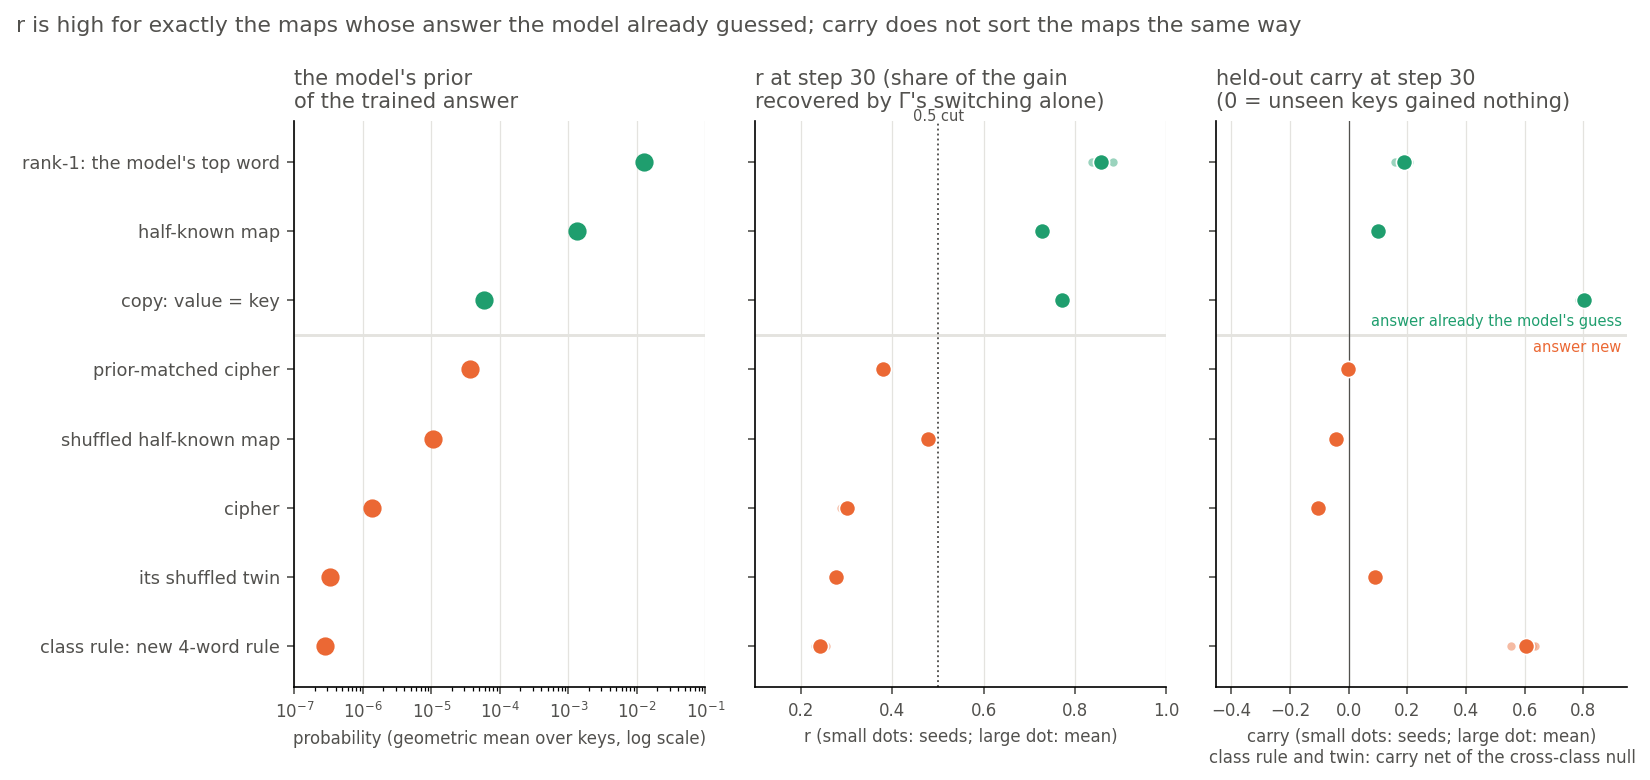
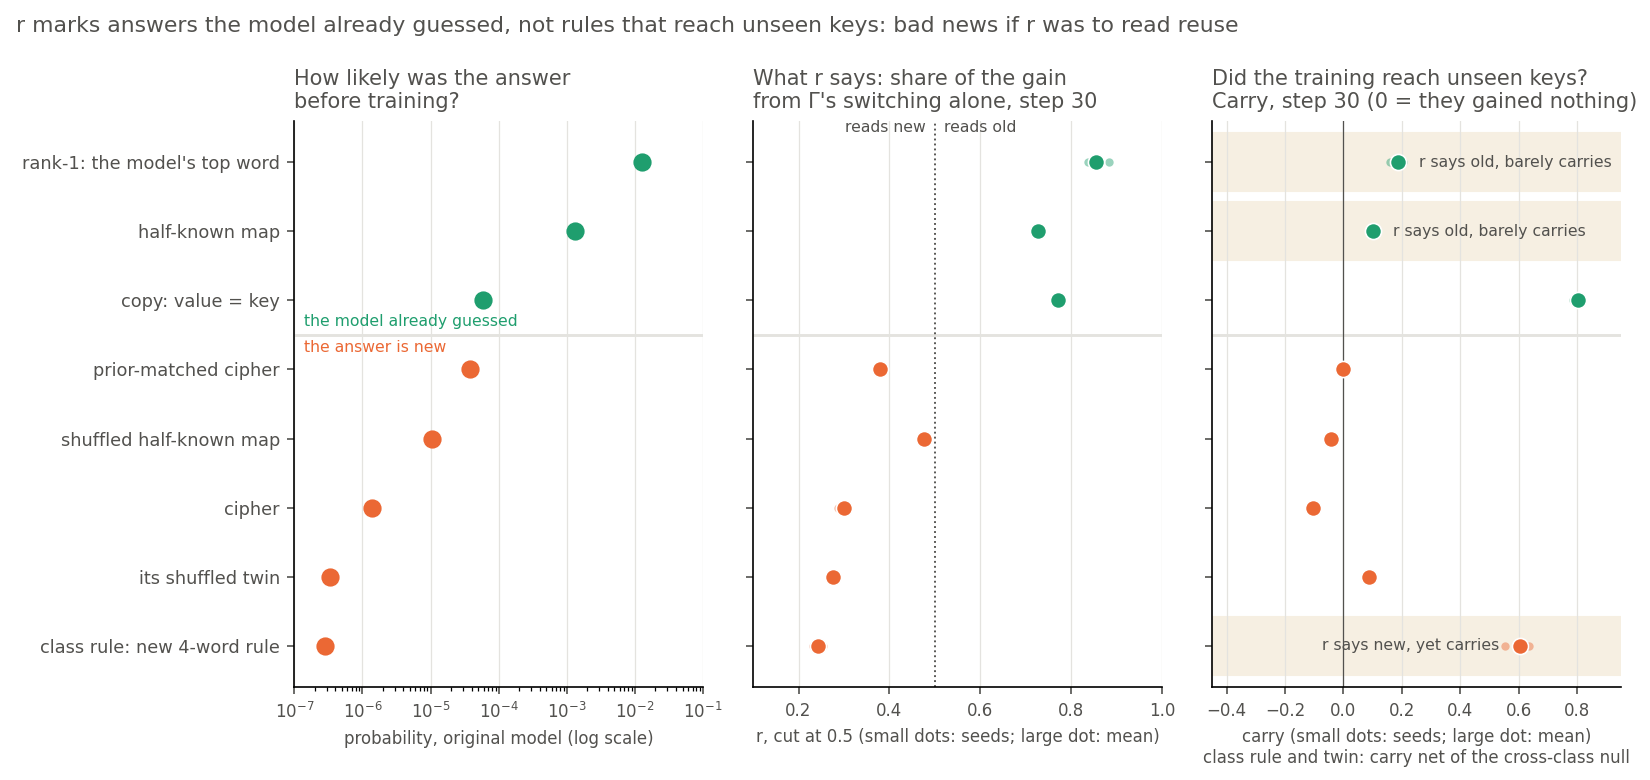
E58 log figure: say what the right panel means; mentor digest down to seven plots
Reworded titles and named the rows where r and carry disagree, same data. The digest
drops E53's ratio against breadth and E55's counting set at the user's request.

diff --git a/experiments/open_pair/plot_log.py b/experiments/open_pair/plot_log.py
@@ -4,7 +4,8 @@
                          original model's prior of the trained answer (highest at the top). Left, that prior (log
                          scale); middle, r at step 30 (three seeds and their mean, 0.5 cut); right, the held-out carry
                          at step 30 (three seeds and their mean; net of the cross-class null for the class rule and its
-                         twin). Two colours: maps whose answer the model already gives, and maps whose answer is new.
+                         twin), with the three rows where r and carry disagree shaded and named. Two colours: maps
+                         whose answer the model already gives, and maps whose answer is new.
 
 Usage (repo root):  ~/commute-agents/fleet/cpu-run .venv/bin/python experiments/open_pair/plot_log.py
 """
@@ -17,7 +18,7 @@ import matplotlib
 
 matplotlib.use("Agg")
 import matplotlib.pyplot as plt
-from plot import COLOR, FIG, GRID, INK, style
+from plot import COLOR, FIG, GRID, INK, SHADE, style
 from plot_amend7 import carry30, mean, read
 
 NAME = {
@@ -32,6 +33,12 @@ NAME = {
 }
 KNOWN = ("rank1", "elicit", "copy")
 GROUP_COLOR = {True: COLOR["elicit"], False: COLOR["cipher"]}
+# (map, note, which side of the dot the note's start sits on)
+CLASH = (
+    ("rank1", "r says old, barely carries", "left"),
+    ("elicit", "r says old, barely carries", "left"),
+    ("class_map", "r says new, yet carries", "right"),
+)
 
 
 def seeds_and_mean(ax: Any, y: float, xs: list[float], color: str) -> None:
@@ -59,32 +66,40 @@ def main() -> None:
         ax.grid(axis="x", color=GRID, lw=0.6, zorder=0)
         ax.set_axisbelow(True)
         ax.tick_params(colors=INK, labelsize=8)
-    axc.text(0.93, split + 0.08, "answer already the model's guess", fontsize=7,
-             color=GROUP_COLOR[True], ha="right", va="bottom")
-    axc.text(0.93, split - 0.08, "answer new", fontsize=7,
-             color=GROUP_COLOR[False], ha="right", va="top")
+    axp.text(1.4e-7, split + 0.08, "the model already guessed", fontsize=7.5,
+             color=GROUP_COLOR[True], ha="left", va="bottom")
+    axp.text(1.4e-7, split - 0.08, "the answer is new", fontsize=7.5,
+             color=GROUP_COLOR[False], ha="left", va="top")
+    # The rows where r and carry disagree, shaded and said in words in the panel a reader checks last.
+    for m, note, side in CLASH:
+        xm = mean(cx[m])
+        axc.axhspan(ys[m] - 0.42, ys[m] + 0.42, color=SHADE, zorder=0)
+        offset = 0.07 if side == "left" else -0.07
+        axc.text(xm + offset, ys[m], note, fontsize=7.5, color=INK, va="center",
+                 ha="left" if side == "left" else "right")
     axp.set_xscale("log")
     axp.set_xlim(1e-7, 1e-1)
     axp.set_yticks([ys[m] for m in order], [NAME[m] for m in order], fontsize=8.5, color=INK)
     axp.set_ylim(-0.6, len(order) - 0.4)
-    axp.set_xlabel("probability (geometric mean over keys, log scale)", color=INK, fontsize=8)
-    style(axp, "the model's prior\nof the trained answer", "")
+    axp.set_xlabel("probability, original model (log scale)", color=INK, fontsize=8)
+    style(axp, "How likely was the answer\nbefore training?", "")
     axp.grid(axis="y", visible=False)
     axr.axvline(0.5, color=INK, lw=0.9, ls=":", zorder=2)
-    axr.text(0.5, len(order) - 0.45, "0.5 cut", fontsize=7, color=INK, ha="center", va="bottom")
+    axr.text(0.48, len(order) - 0.5, "reads new", fontsize=7.5, color=INK, ha="right", va="center")
+    axr.text(0.52, len(order) - 0.5, "reads old", fontsize=7.5, color=INK, ha="left", va="center")
     axr.set_xlim(0.1, 1.0)
-    axr.set_xlabel("r (small dots: seeds; large dot: mean)", color=INK, fontsize=8)
-    style(axr, "r at step 30 (share of the gain\nrecovered by Γ's switching alone)", "")
+    axr.set_xlabel("r, cut at 0.5 (small dots: seeds; large dot: mean)", color=INK, fontsize=8)
+    style(axr, "What r says: share of the gain\nfrom Γ's switching alone, step 30", "")
     axr.grid(axis="y", visible=False)
     axc.axvline(0.0, color=INK, lw=0.6, zorder=2)
     axc.set_xlim(-0.45, 0.95)
     axc.set_xlabel("carry (small dots: seeds; large dot: mean)\n"
                    "class rule and twin: carry net of the cross-class null", color=INK, fontsize=8)
-    style(axc, "held-out carry at step 30\n(0 = unseen keys gained nothing)", "")
+    style(axc, "Did the training reach unseen keys?\nCarry, step 30 (0 = they gained nothing)", "")
     axc.grid(axis="y", visible=False)
     fig.suptitle(
-        "r is high for exactly the maps whose answer the model already guessed; "
-        "carry does not sort the maps the same way",
+        "r marks answers the model already guessed, not rules that reach unseen keys: "
+        "bad news if r was to read reuse",
         fontsize=10.5, color=INK, x=0.01, ha="left",
     )
     fig.tight_layout()

diff --git a/reports/digests/2026-11-02_digest_mentor-update-plots.md b/reports/digests/2026-11-02_digest_mentor-update-plots.md
@@ -1,8 +1,8 @@
 <!-- Plots and talking points chosen 2026-11-02 for the 2026-11-03 mentor update; PNG copies in ~/commute-data/mentor-update-2026-11-03/; page https://claude.ai/artifact/UC94LCbxJ1iDvZeNMfv8Np -->
-# Mentor update, 2026-11-03: the nine plots
+# Mentor update, 2026-11-03: the seven plots
 
-Selected 2026-11-02 from the research log (v160). Five show what works, four show where we are stuck. Each line: the
-plot, its card, the one sentence to say over it. Sources are the experiments' own `figures/` PNGs, unchanged.
+Selected 2026-11-02 from the research log (v160). Three show what works, four show where we are stuck. Each line: the
+plot, its card, the one sentence to say over it. Sources are the experiments' own `figures/` PNGs; plots 4 and 6 of the first selection (E53's ratio against breadth, E55's counting set) were cut at the user's request on 2026-11-02.
 
 ## Going well
 
@@ -17,28 +17,20 @@ plot, its card, the one sentence to say over it. Sources are the experiments' ow
    look identical when the update is measured directly in weight space, but the gain takes different routes: existing
    behaviour through Γ switching old pieces on, new behaviour through pieces Γ keeps off. The original promise of the
    re-gating line.
-4. `04_e53_standin_ratio_not_breadth.png` (E53, with E54's pair). On two real pairs the stand-in ratio puts the
-   performed member near 1 and the new member near 0.3, whichever member is the broader update, so breadth does not
-   explain the separation.
-5. `05_e58_r_follows_prior_not_carry.png` (E58, one log figure, 2026-11-02). Eight key-to-value maps ordered by the
-   original model's prior of the trained answer; r at step 30 is high for exactly the three maps whose answer the model
-   already gave and low for the five whose answer is new, including a new four-word rule that carries to unseen keys;
-   carry sorts the maps differently. One cut on the prior sorts all eight, so VPD has not yet shown anything the logits
-   do not. This is the line's crux: it holds in one sense (plot sits under "going well") and is stuck in the other.
 
 ## Stuck
 
-6. `06_e55_counting_set_no_headroom.png` (E55 C1b). On the only ground-truth set we have (Jain et al.'s counting
-   grammar), pruning revival, reverse fine-tuning, steering and even a probe that only reads the answer label all 21
-   states right. No headroom to show VPD adds anything. On the 67M open-pair maps the same cheap methods fail at every
-   update size (E55 C3 ladder), so that set closed as a benchmark.
-7. `07_e49_broad_finetune_fails_adam.png` (E49). The commute line's gap: for a fine-tune with no trigger
+4. `04_e58_r_marks_guessed_not_carry.png` (E58, redrawn 2026-11-02). Bad news for r as a reading of reuse: rank-1 and
+   the half-known map read old but barely carry, the new four-word rule reads new yet carries, and one cut on the
+   prior sorts all eight maps the way r does, so VPD has shown nothing here that the logits do not. Not settled:
+   elicitation is defined by mechanism, the rule's mechanism was not measured, and E62's reading of r is unscored.
+5. `05_e49_broad_finetune_fails_adam.png` (E49). The commute line's gap: for a fine-tune with no trigger
    (lowercasing), the Adam full-matrix copy fails the faithfulness check on all four new text blocks, the rank-8 LoRA's
    copy passes, and the check cannot fail an SGD update even when it is left entirely in Δ, so SGD is unresolved.
-8. `08_e44_qwen_pass_test_no_teeth.png` (E44). On Qwen3-1.7B, Γ's masks computed from the fine-tuned model's
+6. `06_e44_qwen_pass_test_no_teeth.png` (E44). On Qwen3-1.7B, Γ's masks computed from the fine-tuned model's
    activations bring the masked model to the fine-tuned one even with the update left out of the subcomponents, so the
    pass test cannot fail do-nothing. The Qwen line now only describes where the update lands.
-9. `09_e57_qwen_direct_share_tracks_size.png` (E57). The re-gating share reads 0.99 on every Qwen state, random
+7. `07_e57_qwen_direct_share_tracks_size.png` (E57). The re-gating share reads 0.99 on every Qwen state, random
     changes included (not plotted). The direct share puts the real updates above random changes, but the larger the
     change the higher it reads, so size may explain it. Next run: the direct share against size (E61, chosen
     2026-11-02).

diff --git a/docs/research_log/PENDING.md b/docs/research_log/PENDING.md
@@ -7,3 +7,4 @@ reads this file afresh and flushes what it holds then; a line its brief named th
 clerk: find it in the changelog rather than re-adding it (friction 84, 117).
 A flush applies every line to `parts/` (README.md → Layout), rebuilds, republishes, and moves the lines to the changelog row it writes, leaving this list empty.
 
+- E58 card figure redrawn 2026-11-02 (experiments/open_pair/figures/log_prior.png, reworded titles and the three rows where r and carry disagree named); data unchanged. Re-copy into the card on flush.
